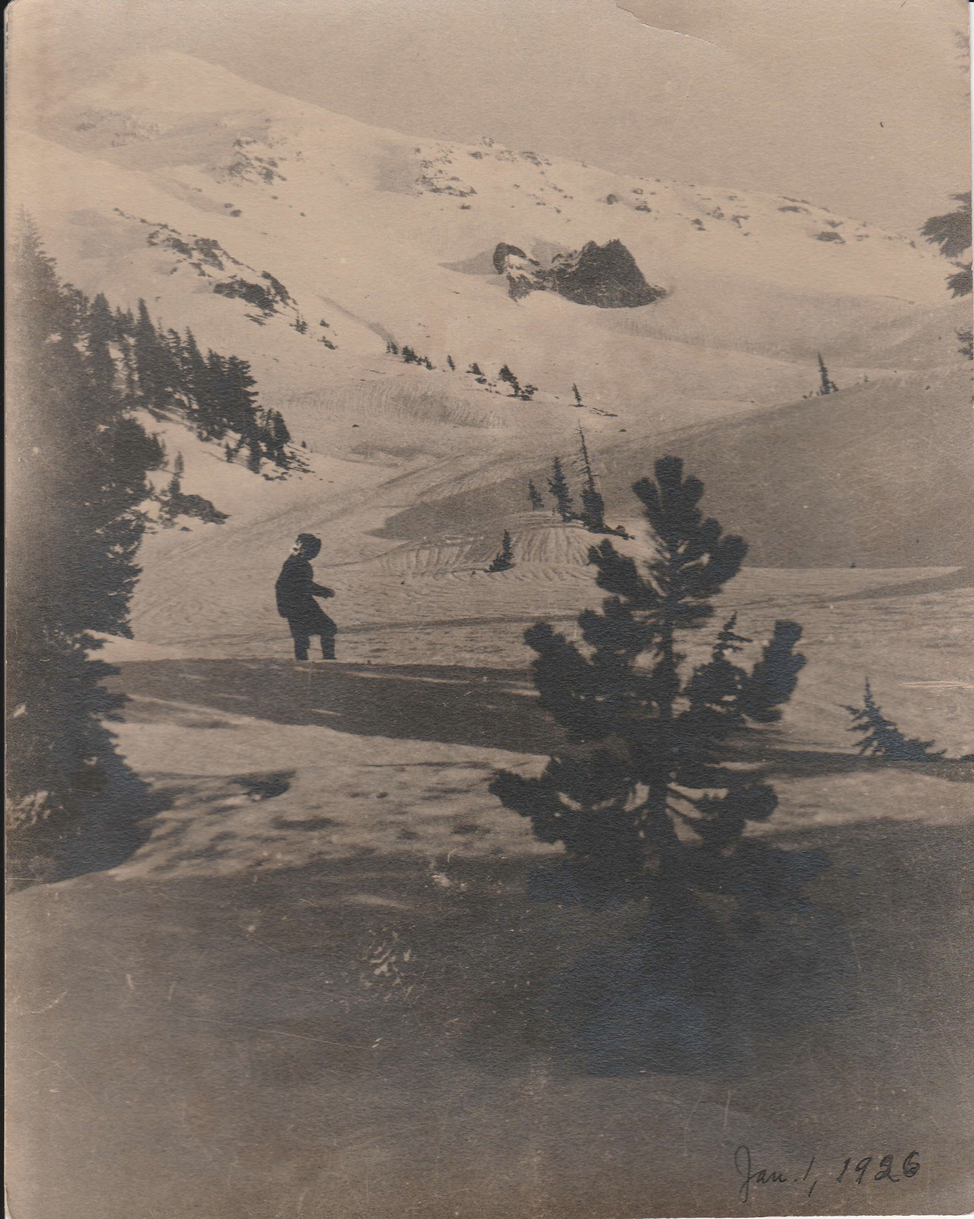
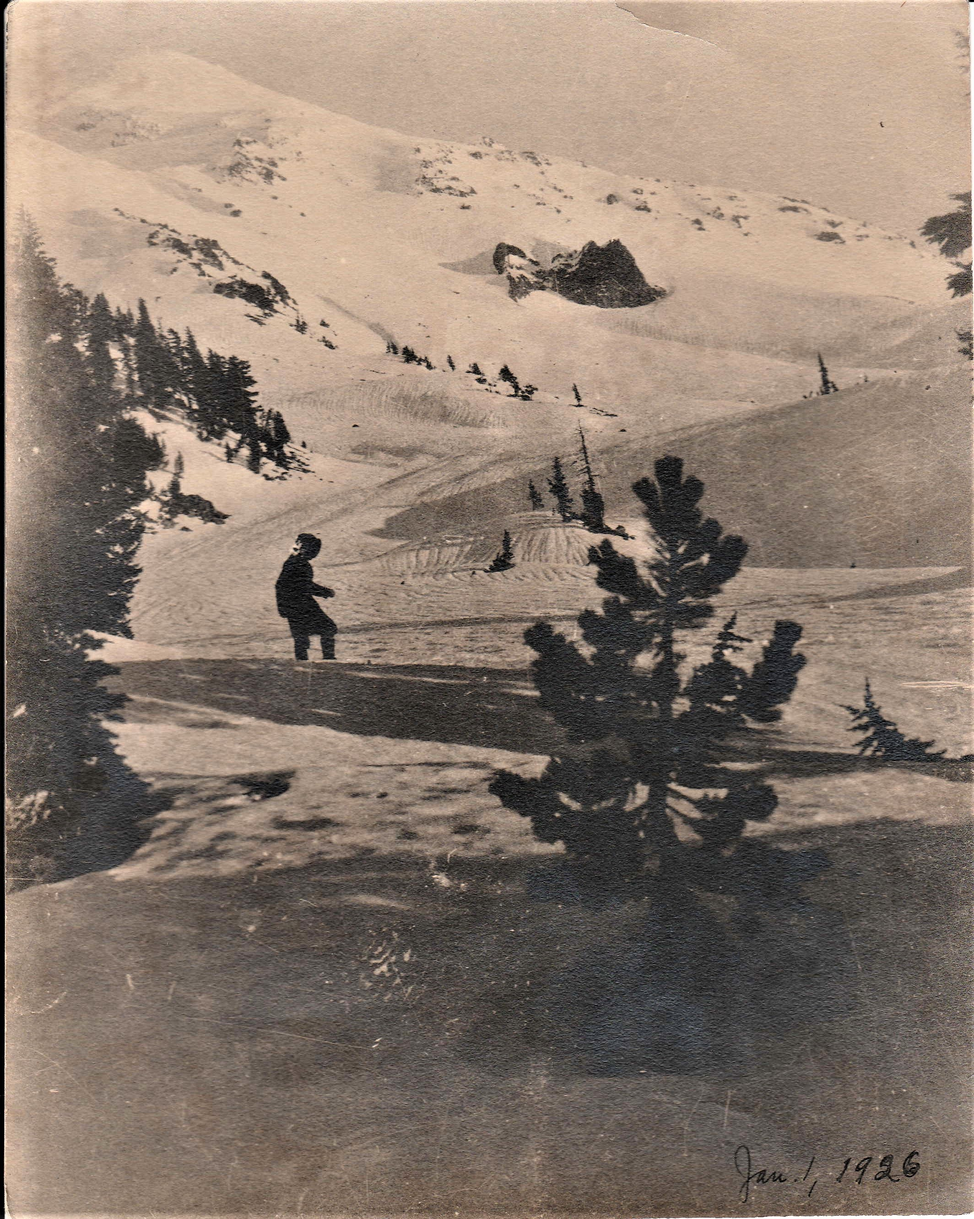
Improved image quality

diff --git a/Antiques/antique06.html b/Antiques/antique06.html
@@ -23,25 +23,25 @@
 				<hr />
 				<ul>
 					<li>
-						<u>Medium</u>:
+						<u>Medium</u>: Non-Glossy photopaper on decorative cardstock
 					</li>
 					<li>
-						<u>Color Profile</u>:
+						<u>Color Profile</u>: Sepia
 					</li>
 					<li>
-						<u>Subject</u>: 
+						<u>Subject</u>: Young boy standing on an ornate wooden chair wearing a large dress-coat with a belt and boots
 					</li>
 					<li>
 						<u>Year</u>: 
 					</li>
 					<li>
-						<u>Dimensions</u>:
+						<u>Dimensions</u>: 5.75" x 4.75"
 					</li>
 					<li>
-						<u>Photographer</u>:
+						<u>Photographer</u>: U.S. East Coast Area
 					</li>
 					<li>
-						<u>Location Found</u>: 
+						<u>Location Found</u>: Found in an antique shop in the Oregon Dunes area. The majority of the photographs in this particular store were sourced from the East Coast of the U.S.
 					</li>
 				</ul>
 			</div>

diff --git a/Antiques/antique01.html b/Antiques/antique01.html
@@ -43,6 +43,9 @@
 						<u>Photographer</u>:
 					</li>
 					<li>
+						<u>Location of Origin</u>: U.S. East Coast Area
+					</li>
+					<li>
 						<u>Location Found</u>: Found in an antique shop in the Oregon Dunes area. The majority of the photographs in this particular store were sourced from the East Coast of the U.S. so it is very likely this photograph came from that area as well.
 					</li>
 				</ul>

diff --git a/Antiques/antique02.html b/Antiques/antique02.html
@@ -41,6 +41,9 @@
 						<u>Photographer</u>:
 					</li>
 					<li>
+						<u>Location of Origin</u>: U.S. East Coast Area
+					</li>
+					<li>
 						<u>Location Found</u>: Found in an antique shop in the Oregon Dunes area. The majority of the photographs in this particular store were sourced from the East Coast of the U.S. so it is very likely this photograph came from that area as well.
 					</li>
 				</ul>

diff --git a/Antiques/antique04.html b/Antiques/antique04.html
@@ -41,7 +41,7 @@
 						<u>Photographer</u>: Pixie Snap
 					</li>
 					<li>
-						<u>Location of Origin</u>: U.S. East Coast
+						<u>Location of Origin</u>: U.S. East Coast Area
 					</li>
 					<li>
 						<u>Location Found</u>: Found in an antique shop in the Oregon Dunes area. The majority of the photographs in this particular store were sourced from the East Coast of the U.S.
